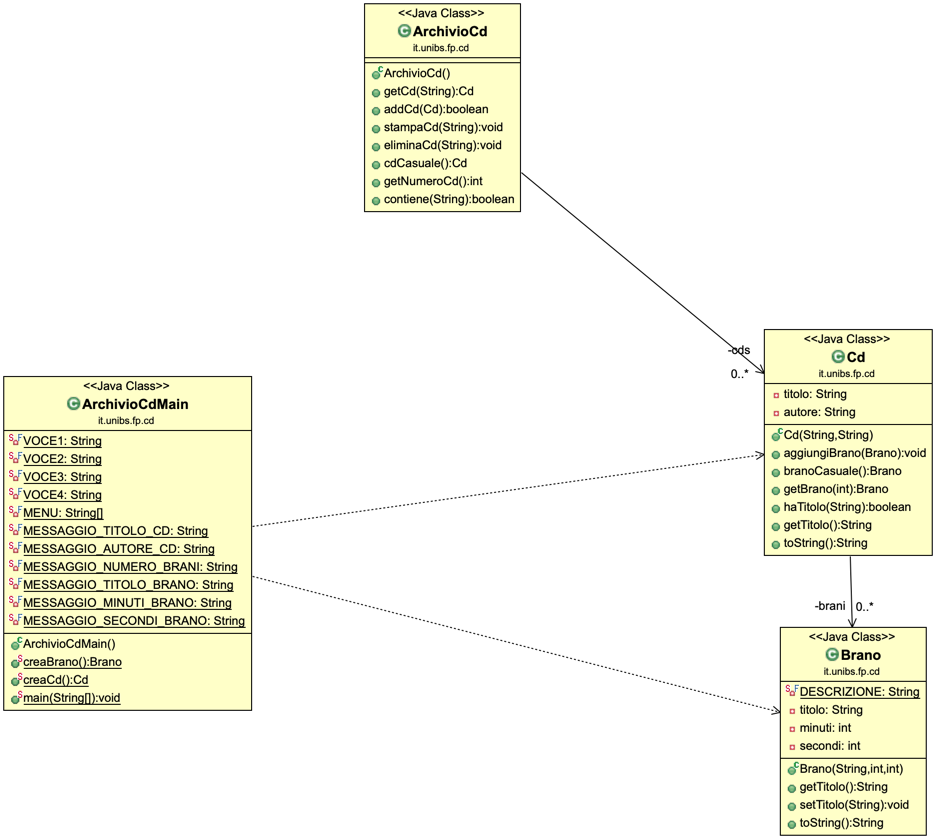
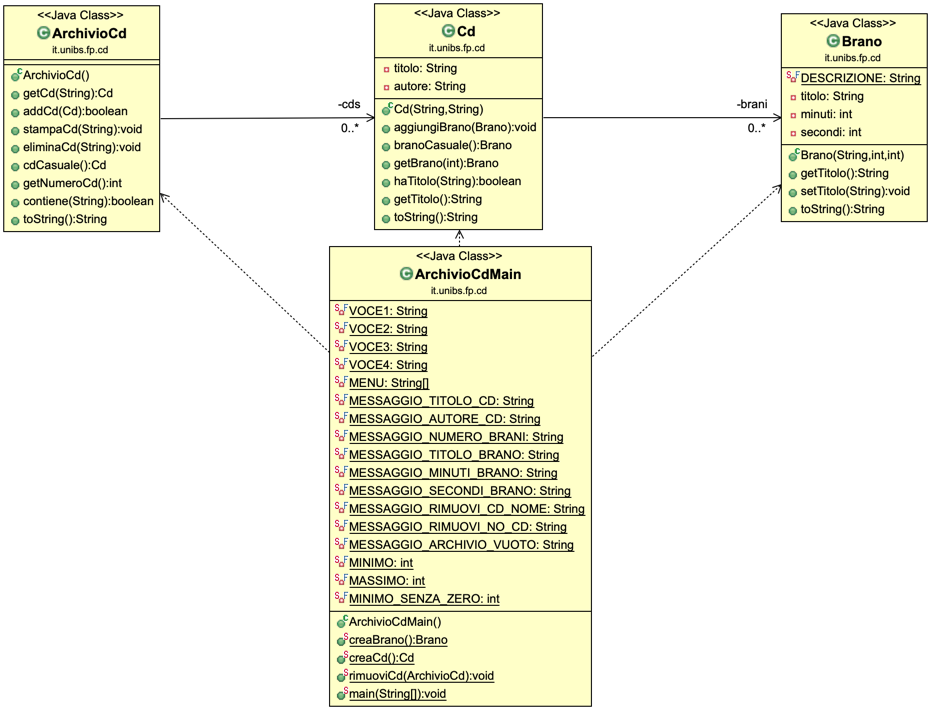
UML & input brano

diff --git a/src/it/unibs/fp/cd/ArchivioCdMain.java b/src/it/unibs/fp/cd/ArchivioCdMain.java
@@ -18,9 +18,13 @@ public class ArchivioCdMain {
 	private static final String MESSAGGIO_TITOLO_BRANO = "\nInserisci il titolo del nuovo brano: ";
 	private static final String MESSAGGIO_MINUTI_BRANO = "Quanti minuta dura il brano? ";
 	private static final String MESSAGGIO_SECONDI_BRANO = "Quanti secondi dura il brano? ";
-	private static final String MESSAGGIO_RIMUOVI_BRANO_NOME = "Qual'è il titolo del brano che vuoi rimuovere? ";
-	private static final String MESSAGGIO_RIMUOVI_BRANO_NO_CD = "Non è stato trovato nessun brano con quel titolo";
+	private static final String MESSAGGIO_RIMUOVI_CD_NOME = "Qual è il titolo del CD che vuoi rimuovere? ";
+	private static final String MESSAGGIO_RIMUOVI_NO_CD = "Non è stato trovato nessun CD con quel titolo";
 	private static final String MESSAGGIO_ARCHIVIO_VUOTO = "Non ci sono CD nella tua collezione.";
+	
+	private static final int MINIMO = 0;
+	private static final int MASSIMO = 60;
+	private static final int MINIMO_SENZA_ZERO = 1;
 
 	/**
 	 * Metodo per la creazione di un nuovo brano
@@ -32,13 +36,13 @@ public class ArchivioCdMain {
 		int minuti, secondi;
 		
 		titolo = MyInputDati.leggiStringaNonVuota(MESSAGGIO_TITOLO_BRANO);
-		minuti = MyInputDati.leggiInteroNonNegativo(MESSAGGIO_MINUTI_BRANO);
+		minuti = MyInputDati.leggiIntero(MESSAGGIO_MINUTI_BRANO, MINIMO, MASSIMO);
 		
 		if( minuti > 0 ) {
-			secondi = MyInputDati.leggiInteroNonNegativo(MESSAGGIO_SECONDI_BRANO);
+			secondi = MyInputDati.leggiIntero(MESSAGGIO_SECONDI_BRANO, MINIMO, MASSIMO);
 		}
 		else {
-			secondi = MyInputDati.leggiInteroPositivo(MESSAGGIO_SECONDI_BRANO);
+			secondi = MyInputDati.leggiIntero(MESSAGGIO_SECONDI_BRANO, MINIMO_SENZA_ZERO, MASSIMO);
 		}
 		
 		
@@ -69,6 +73,7 @@ public class ArchivioCdMain {
 		
 		return nuovoCd;
 	}
+	
 	/**
 	 * Metodo per la rimozione di un CD dall-archivio
 	 */
@@ -76,10 +81,11 @@ public class ArchivioCdMain {
 		
 		String titolo;
 		
-		titolo = MyInputDati.leggiStringaAlfaNumerica(MESSAGGIO_RIMUOVI_BRANO_NOME);
+		titolo = MyInputDati.leggiStringaAlfaNumerica(MESSAGGIO_RIMUOVI_CD_NOME);
 		Cd daRimuovere = archivio.getCd(titolo);
+		
 		if(daRimuovere.equals(null)){
-			System.out.println(MESSAGGIO_RIMUOVI_BRANO_NO_CD);
+			System.out.println(MESSAGGIO_RIMUOVI_NO_CD);
 		}else{
 			archivio.eliminaCd(titolo);
 		}
@@ -98,28 +104,48 @@ public class ArchivioCdMain {
 			
 			switch(scelta) {
 				case 1:
+					// aggiungere il cd all'archivio
+					
 					Cd nuovoCd;
 					nuovoCd = creaCd();
+					
 					archivio.addCd(nuovoCd);
-					// aggiungere il cd all'archivio
 					break;
 					
 				case 2:
 					//visualizza collezione cd
-					System.out.println(archivio.toString());
+					
+					if(archivio.getNumeroCd()==0) {
+						
+						System.out.println(MESSAGGIO_ARCHIVIO_VUOTO);
+					}
+					else { 
+						System.out.println(archivio.toString());
+					}
 					break;
 					
 				case 3:
 					//rimozione cd
-					rimuoviCd(archivio);
+					
+					if(archivio.getNumeroCd()==0) {
+						
+						System.out.println(MESSAGGIO_ARCHIVIO_VUOTO);
+					}
+					else { 
+						rimuoviCd(archivio);
+					}
 					break;
 					
 				case 4:
 					//selezione di un brano a caso estratto dall'intera collezione
-					if(archivio.getNumeroCd()==0)
+					
+					if(archivio.getNumeroCd()==0) {
+						
 						System.out.println(MESSAGGIO_ARCHIVIO_VUOTO);
-					else
+					}
+					else { 
 						archivio.cdCasuale().toString();
+					}
 					break;
 			  }
 

diff --git a/src/it/unibs/fp/cd/ArchivioCd.java b/src/it/unibs/fp/cd/ArchivioCd.java
@@ -114,7 +114,7 @@ public class ArchivioCd {
     public String toString(){
         String out = "";
         for (Cd cd : cds) {
-            out=cd.toString()+"\n";
+            out+=cd.toString()+"\n";
         }
         return out;
     }

diff --git a/src/it/unibs/fp/cd/Brano.java b/src/it/unibs/fp/cd/Brano.java
@@ -24,6 +24,7 @@ public class Brano {
 	 */
 	public Brano(String titolo, int minuti, int secondi) {
 		super();
+		
 		this.titolo = titolo;
 		this.minuti = minuti;
 		this.secondi = secondi;
